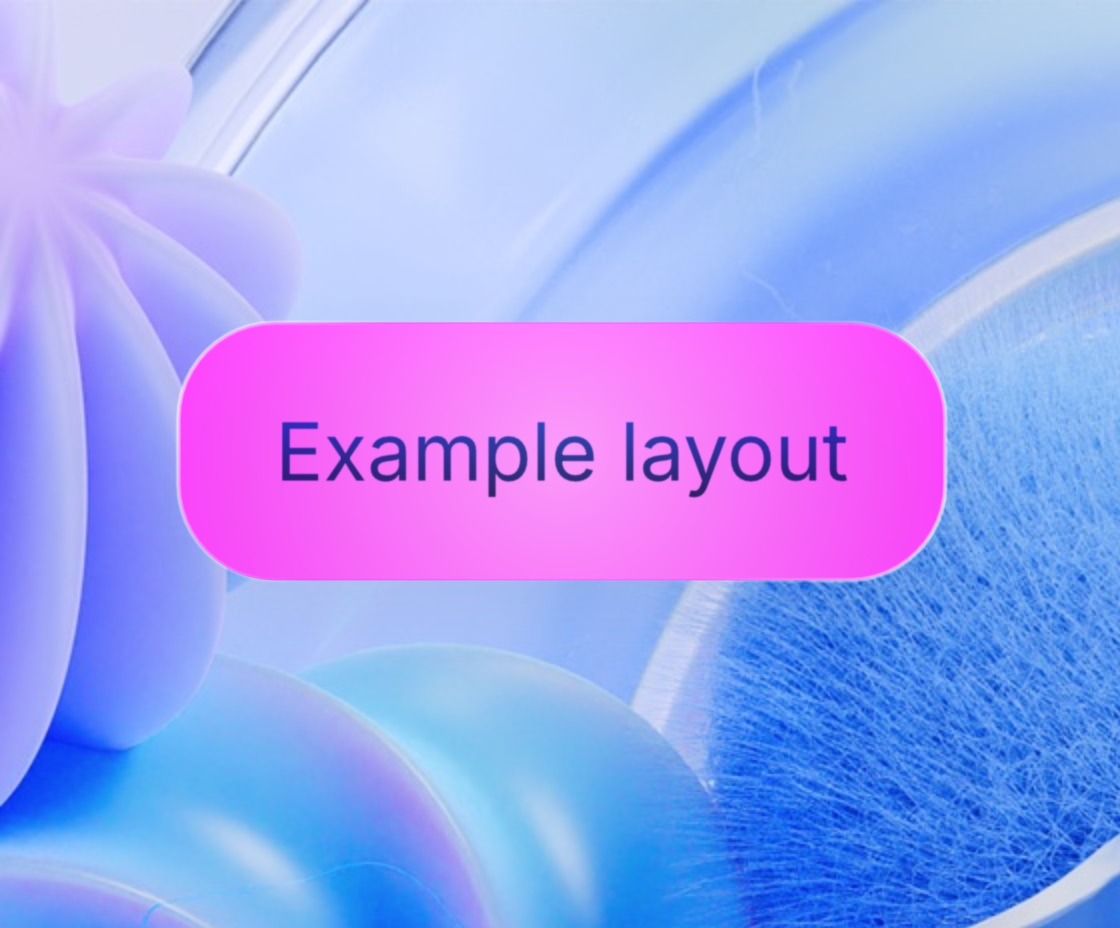
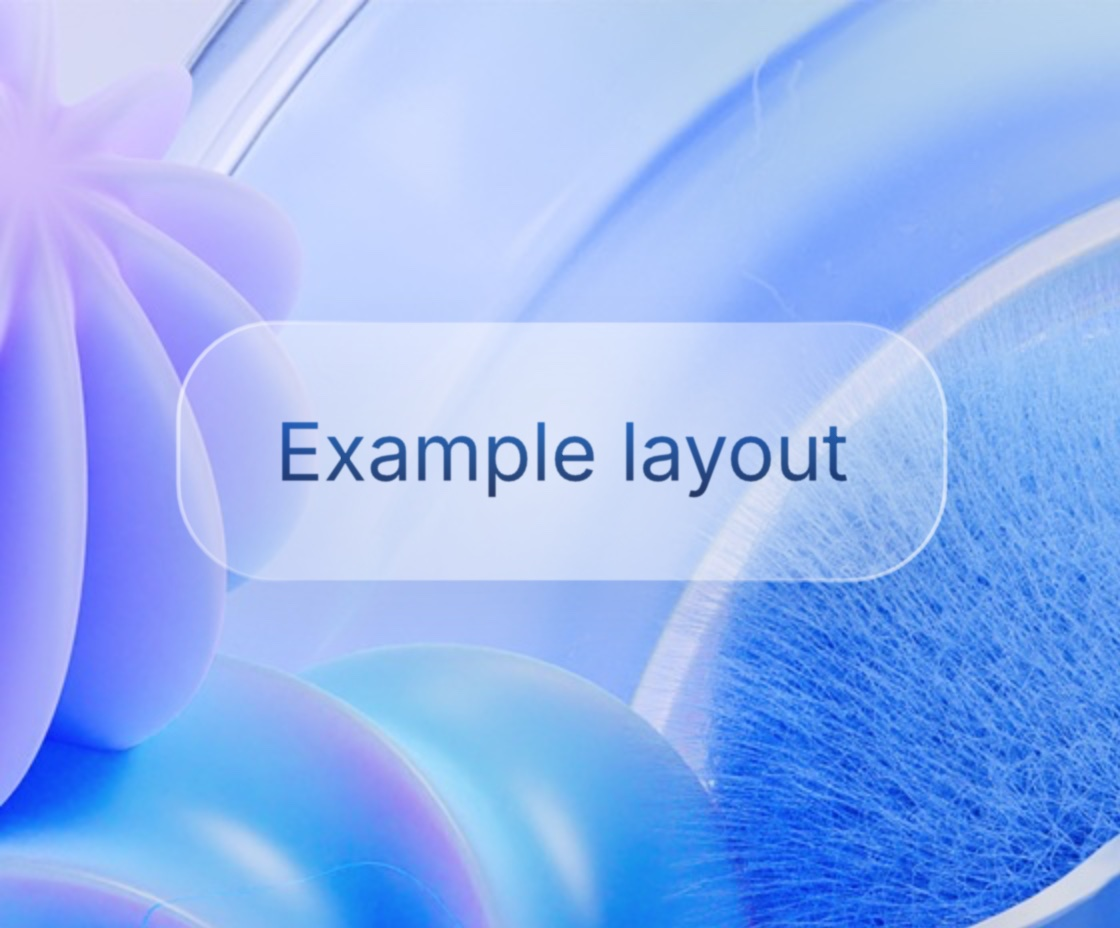
fix: hide Rive previews under live canvases and pad animations
- Hide the still preview once the live canvas has faded in, so
  transparent artboards (slider, dynamic icon) no longer show it through.
- Inset Rive content 24px from the card edge on a dark backdrop.
- Re-render the Liquid glass preview without its GPU glass pass, which
  the CLI's headless renderer draws pink.

Changed region(s): [[0.1562, 0.3438, 0.8438, 0.625]]

diff --git a/src/gallery/Gallery.tsx b/src/gallery/Gallery.tsx
@@ -25,6 +25,9 @@ export function Gallery() {
   const [panelOpen, setPanelOpen] = useState(false)
   const [article, setArticle] = useState<number | null>(null)
   const [live, setLive] = useState<number | null>(null)
+  // The live item whose canvas has fully faded in. Its preview is hidden then:
+  // transparent artboards would otherwise show the still frame through.
+  const [drawn, setDrawn] = useState<number | null>(null)
   const closable = article !== null || live !== null
 
   useEffect(() => {
@@ -72,19 +75,37 @@ export function Gallery() {
             background: p.rive?.bg,
           }}
         >
-          <img
-            src={p.src}
-            alt=""
-            draggable={false}
-            decoding="async"
-            className={
-              p.rive?.art
-                ? "pointer-events-none absolute object-contain"
-                : "pointer-events-none size-full object-cover"
-            }
-            style={p.rive?.art ? boxStyle(p.rive.art, p) : undefined}
-          />
-          {live === i && <RivePlayer photo={p} />}
+          {p.rive ? (
+            // Rive content sits 24px in from the card edge (at its open size;
+            // the inset scales with the card everywhere else).
+            <div className="absolute inset-6">
+              <img
+                src={p.src}
+                alt=""
+                draggable={false}
+                decoding="async"
+                className="pointer-events-none absolute object-contain"
+                style={{
+                  ...boxStyle(p.rive.art, p),
+                  visibility: live === i && drawn === i ? "hidden" : undefined,
+                }}
+              />
+              {live === i && (
+                <RivePlayer
+                  photo={p}
+                  onReady={(r) => setDrawn(r ? i : null)}
+                />
+              )}
+            </div>
+          ) : (
+            <img
+              src={p.src}
+              alt=""
+              draggable={false}
+              decoding="async"
+              className="pointer-events-none size-full object-cover"
+            />
+          )}
         </button>
       ))}
 

diff --git a/src/gallery/RivePlayer.tsx b/src/gallery/RivePlayer.tsx
@@ -14,10 +14,21 @@ RuntimeLoader.setWasmFallbackUrl(riveFallbackWasm)
  * open; it fades in over the preview image once the first frame is drawn, and
  * is torn down (WebGL context and all) as soon as the item starts to close.
  */
-export function RivePlayer({ photo }: { photo: Photo }) {
+export function RivePlayer({
+  photo,
+  onReady,
+}: {
+  photo: Photo
+  /** Told when the live canvas has fully faded in, and again on teardown. */
+  onReady?: (ready: boolean) => void
+}) {
   const spec = photo.rive!
   const ref = useRef<HTMLCanvasElement>(null)
   const [ready, setReady] = useState(false)
+  const onReadyRef = useRef(onReady)
+  useEffect(() => {
+    onReadyRef.current = onReady
+  })
 
   useEffect(() => {
     const canvas = ref.current!
@@ -61,6 +72,7 @@ export function RivePlayer({ photo }: { photo: Photo }) {
     return () => {
       ro.disconnect()
       r.cleanup()
+      onReadyRef.current?.(false)
     }
   }, [spec])
 
@@ -72,6 +84,9 @@ export function RivePlayer({ photo }: { photo: Photo }) {
       style={{
         ...boxStyle(spec.canvas ?? spec.art, photo),
         opacity: ready ? 1 : 0,
+      }}
+      onTransitionEnd={(e) => {
+        if (e.propertyName === "opacity" && ready) onReadyRef.current?.(true)
       }}
     />
   )

diff --git a/src/gallery/photos.ts b/src/gallery/photos.ts
@@ -81,6 +81,8 @@ function full(
     rive: {
       src: `${BASE}${slug}.riv`,
       stateMachine: "State Machine 1",
+      // Shows in the 24px padding around every animation.
+      bg: WIDGET_BG,
       ...rive,
     },
   }
@@ -95,7 +97,7 @@ function widget(
   art: Box,
   rive: Omit<RiveSpec, "src" | "art"> = {}
 ): Photo {
-  return full(slug, title, width, height, { art, bg: WIDGET_BG, ...rive })
+  return full(slug, title, width, height, { art, ...rive })
 }
 
 /**
@@ -152,6 +154,5 @@ export const PHOTOS: Photo[] = [
     artboard: "Pixel",
     gpu: true,
   }),
-  // Transparent artboard: give it the same backdrop the preview was shot on.
-  full("funn", "Funn", 500, 500, { bg: WIDGET_BG }),
+  full("funn", "Funn", 500, 500),
 ]
